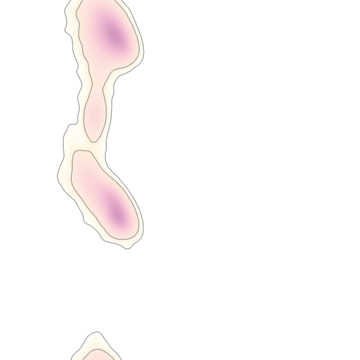
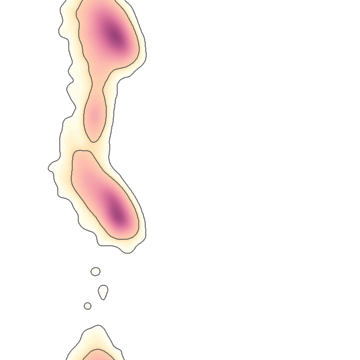
Update Ramachandran plot
Default levels are 2% and 0.5% now (new figures). Background ramachandran
figures are gamma corrected (2.5).
For stand-alone rama plot add options to change gamma and contour levels
on the command line.

diff --git a/src/dynarama-main.cc b/src/dynarama-main.cc
@@ -82,6 +82,8 @@ print_help(std::string cmd) {
              << "[--kleywegt (to make kleywegt, autoamtically for multiple selections, chains)]\n"
              << "[--edit (edit mode, currently debug only)]\n"
              << "[--psiaxis (change psi axis to -120 to 240)]\n"
+             << "[--levelpreferred levelin] (default: " << coot::rama_plot::default_level_prefered << ")\n"
+             << "[--levelallowed levelin] (default: " << coot::rama_plot::default_level_allowed << ")\n"
              << "[--help (this help)]\n"
              << "\n";
    std::cout << "     where pdbin is the protein and pdbin2 a second one for a Kleywegt plot.\n";
@@ -106,10 +108,14 @@ main(int argc, char *argv[]) {
    int is_kleywegt_plot_flag = 0;
    int psi_axis_option = coot::rama_plot::PSI_CLASSIC;
    float block_size = 2;
+//   float level_prefered = 0.02;
+   float level_prefered = coot::rama_plot::default_level_prefered;
+   float level_allowed = coot::rama_plot::default_level_allowed;
+   float gamma = 0;
    bool do_help = false;
    bool print_bg = false;
 
-   const char *optstr = "i:s:j:t:c:d:e:b:kphx";
+   const char *optstr = "i:s:j:t:c:d:e:b:l:m:g:kphx";
    struct option long_options[] = {
    {"pdbin", 1, 0, 0},
    {"selection", 1, 0, 0},
@@ -119,6 +125,8 @@ main(int argc, char *argv[]) {
    {"chain2", 1, 0, 0},
    {"edit", 1, 0, 0},   // BL Note:: maybe there should be an edit selection
    {"blocksize", 1, 0, 0},
+   {"levelpreferred", 1, 0, 0},
+   {"levelallowed", 1, 0, 0},
    {"kleywegt", 0, 0, 0},
    {"psiaxis", 0, 0, 0},
    {"help", 0, 0, 0},
@@ -168,6 +176,14 @@ main(int argc, char *argv[]) {
             }
             if (arg_str == "blocksize") {
                block_size = coot::util::string_to_float(coot_optarg);
+               n_used_args += 2;
+            }
+            if (arg_str == "levelpreferred") {
+               level_prefered = coot::util::string_to_float(coot_optarg);
+               n_used_args += 2;
+            }
+            if (arg_str == "levelallowed") {
+               level_allowed = coot::util::string_to_float(coot_optarg);
                n_used_args += 2;
             }
          } else {
@@ -233,6 +249,16 @@ main(int argc, char *argv[]) {
          n_used_args += 2;
          break;
 
+      case 'l':
+         level_prefered = coot::util::string_to_float(coot_optarg);
+         n_used_args += 2;
+         break;
+
+      case 'm':
+         level_allowed = coot::util::string_to_float(coot_optarg);
+         n_used_args += 2;
+         break;
+
       case 'k':
          is_kleywegt_plot_flag = 1;
          n_used_args++;
@@ -249,12 +275,19 @@ main(int argc, char *argv[]) {
          do_help = true;
          break;
 
+      // Secret options
       // This is used to make background images
       case 'x':
+         std::cout << "Making bg images... " << std::endl;
          print_help(argv[0]);
          n_used_args++;
          print_bg = true;
          do_help = false;
+         break;
+
+      case 'g':
+         gamma = coot::util::string_to_float(coot_optarg);
+         n_used_args += 2;
          break;
 
       case '?':
@@ -294,8 +327,6 @@ main(int argc, char *argv[]) {
 
       gtk_init (&argc, &argv);
 
-      float level_prefered = 0.02;
-      float level_allowed = 0.002;
       int imol = 0; // dummy for now
       int imol2 = 0;
 
@@ -420,6 +451,9 @@ main(int argc, char *argv[]) {
          }
 
          rama->set_stand_alone();
+         if (gamma) {
+            rama->set_gamma_correction(gamma);
+         }
          rama->init(imol,
                     pdb_file_name,
                     level_prefered,
@@ -471,6 +505,7 @@ main(int argc, char *argv[]) {
 
             if (rama) {
                if (print_bg) {
+                  std::cout<<"BL INFO:: now make bg images with levels " << level_prefered << " " << level_allowed << " and block " << block_size << std::endl;
                   rama->make_bg_images();
                }
             }
@@ -488,8 +523,6 @@ main(int argc, char *argv[]) {
 
       gtk_init(&argc, &argv);
    }
-
-   std::cout << "BL DBEUG:: returning now n_used_args" << n_used_args <<std::endl;
 
    return 0;
 

diff --git a/src/rama_plot.cc b/src/rama_plot.cc
@@ -39,6 +39,7 @@
 #include <iostream>
 #include <algorithm>
 #include <sys/stat.h>
+#include <cmath>
 
 #include <gdk/gdkkeysyms.h> // for keyboarding.
 
@@ -69,6 +70,10 @@
 
 #include "c-interface.h"
 #include "c-interface-gtk-widgets.h"
+
+
+float coot::rama_plot::default_level_prefered = 0.02;
+float coot::rama_plot::default_level_allowed = 0.0005;
 
 void
 coot::rama_plot::init(int imol_in, const std::string &mol_name_in, float level_prefered, float level_allowed,
@@ -437,7 +442,6 @@ coot::rama_plot::init_internal(const std::string &mol_name,
        level_prefered != current_level_prefered) {
       current_level_allowed = level_allowed;
       current_level_prefered = level_prefered;
-
    }
 
    if (!current_bg) {
@@ -564,11 +568,14 @@ coot::rama_plot::setup_internal(float level_prefered, float level_allowed) {
    
    // Lovell et al. 2003, 50, 437 Protein Structure, Function and Genetics values:
    rama_threshold_preferred = 0.02; 
-   rama_threshold_allowed = 0.002;
+   rama_threshold_allowed = 0.0005;
    
    //clipper defaults: 0.01 0.0005
 
    rama.set_thresholds(level_prefered, level_allowed);
+   // do we need this?
+   rama_threshold_preferred = level_prefered;
+   rama_threshold_allowed = level_allowed;
    //
 #ifdef CLIPPER_HAS_TOP8000
    r_gly.init(clipper::Ramachandran::Gly2);
@@ -697,12 +704,12 @@ coot::rama_plot::setup_background(bool blocks, bool isolines, bool print_image) 
 #endif
 
    // if default we use images otherwise we make blocks
-
    if (!print_image) {
       // use a pre-made rama picture if we have standard settings,
       // otherwise make a block background to specifications
-      if (fabs(rama_threshold_preferred - 0.02) < 0.000001 &&
-          fabs(rama_threshold_allowed - 0.002) < 0.000001 &&
+      if (fabs(rama_threshold_preferred - default_level_prefered) < 0.000001 &&
+          fabs(rama_threshold_allowed - default_level_allowed) < 0.000001 &&
+          fabs(step - 2.) < 0.000001 &&
           psi_axis_mode == PSI_CLASSIC)
       {
 #ifdef CLIPPER_HAS_TOP8000
@@ -729,6 +736,7 @@ coot::rama_plot::setup_background(bool blocks, bool isolines, bool print_image) 
    }
 
    // no bg done, so lets make the "classic" way
+   // take_bg_image is 0 for making it from a png.
    if (take_bg_image) {
       // do at least one:
       if (! blocks && ! isolines)
@@ -780,6 +788,8 @@ coot::rama_plot::get_intermediate_bg_colour(guint start_colour[4],
    static guint new_colour[4];
    float x;
    guint rgba_bg;
+   float y;
+   float z;
 
    x = (probability - prob_min) / (prob_max - prob_min);
 
@@ -790,12 +800,14 @@ coot::rama_plot::get_intermediate_bg_colour(guint start_colour[4],
       else
          new_colour[i] = (int)((1. - x) * (float)start_colour[i] +
                                x * (float)end_colour[i]);
+      y = new_colour[i]/255.;
+      new_colour[i] = (int) (255. * pow(y, gamma_correction));
    }
+
 
    // do some byte shift
    rgba_bg = (new_colour[0] << 24) + (new_colour[1] << 16) +
          (new_colour[2] << 8) + new_colour[3];
-
    return rgba_bg;
 }
 
@@ -915,6 +927,7 @@ coot::rama_plot::make_background(const clipper::Ramachandran rama_type,
 
 #ifdef HAVE_GOOCANVAS
 
+// returns 0 on success; 1 on failure
 int
 coot::rama_plot::make_background_from_image(const clipper::Ramachandran rama_type,
                                             GooCanvasItem *bg_group,
@@ -1203,7 +1216,7 @@ coot::rama_plot::make_isolines(const clipper::Ramachandran rama_type, GooCanvasI
                                                 x1,y1,
                                                 x2,y2,
 //                                                "stroke-color", "black",
-                                                "stroke-color", "grey60",
+                                                "stroke-color", "grey30",
                                                 "line-width", line_width,
 				NULL);
          }

diff --git a/src/globjects.cc b/src/globjects.cc
@@ -1100,7 +1100,7 @@ short int graphics_info_t::in_backbone_torsion_define = 0;
 coot::rama_plot  *graphics_info_t::edit_phi_psi_plot = NULL;
 #endif // HAVE_GTK_CANVAS
 float graphics_info_t::rama_level_prefered = 0.02;
-float graphics_info_t::rama_level_allowed = 0.002;
+float graphics_info_t::rama_level_allowed = 0.0005;
 float graphics_info_t::rama_plot_background_block_size = 2; // divisible into 360 preferably.
 int graphics_info_t::rama_psi_axis_mode = coot::rama_plot::PSI_CLASSIC;
 coot::ramachandran_points_container_t graphics_info_t::rama_points = coot::ramachandran_points_container_t();

diff --git a/src/c-interface-validate.cc b/src/c-interface-validate.cc
@@ -82,6 +82,8 @@
 
 #include "c-interface-gui.hh"
 
+#include "rama_plot.hh"
+
 /*  ----------------------------------------------------------------------- */
 /*                  check waters interface                                  */
 /*  ----------------------------------------------------------------------- */
